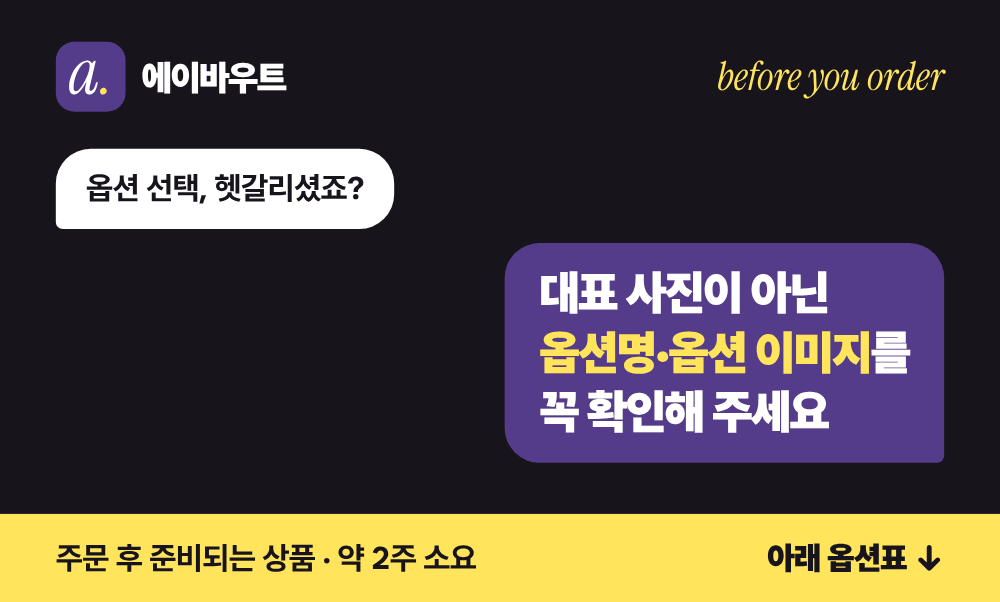
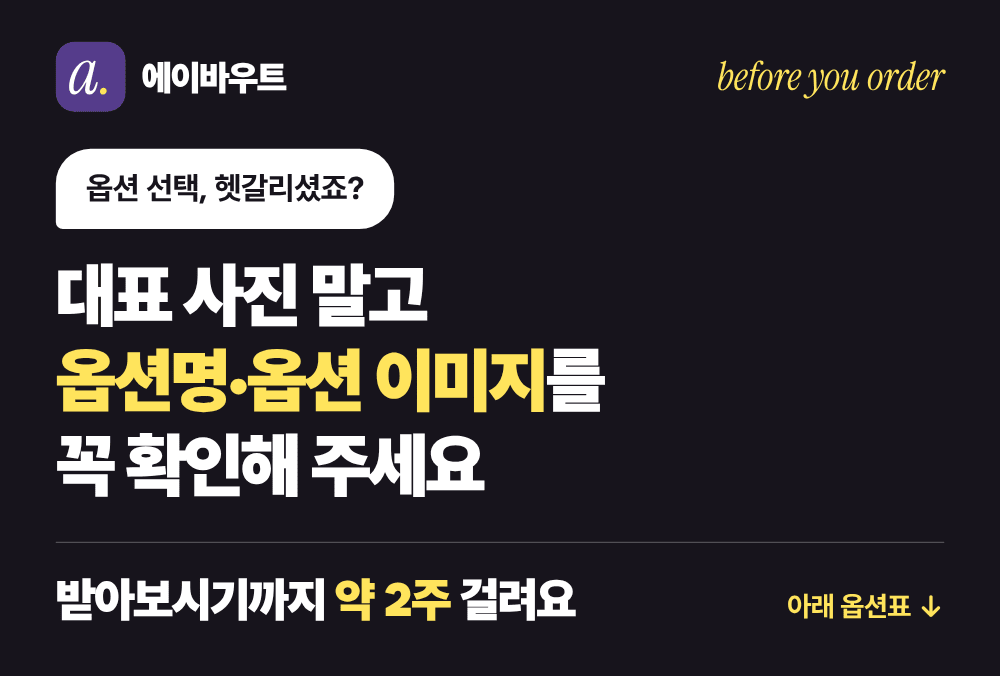
에이바우트 상단: 핵심 문구를 말풍선 밖 큰 글씨로, 노란 띠 문구 제거
Claude-Session: https://claude.ai/code/session_01PE2ziTJ29XNj6qrJ9hNtvD

diff --git a/about-design/src/top.html b/about-design/src/top.html
@@ -2,21 +2,21 @@
 <html lang="ko"><head><meta charset="utf-8"><title>에이바우트 상단</title>
 <link rel="stylesheet" href="style.css">
 <style>
-  .hero { background: var(--ink); color: #fff; padding: 36px 48px 44px; }
+  .hero { background: var(--ink); color: #fff; padding: 36px 48px 40px; }
   .bar { display: flex; justify-content: space-between; align-items: center; }
   .bar .en { font-size: 34px; color: var(--mark); }
   .hero .chat { margin-top: 32px; }
   .hero .q { background: #fff; color: var(--ink); }
-  .strip { background: var(--mark); color: var(--ink); padding: 18px 48px; display: flex; justify-content: space-between; align-items: center; font-weight: 700; }
-  .strip .dn { font-weight: 900; white-space: nowrap; }
+  /* 핵심 문구: 말풍선이 아니라 화면 폭 전체에 크게 */
+  .big { margin-top: 20px; font-weight: 900; font-size: 60px; line-height: 1.22; letter-spacing: -0.045em; }
+  .foot { margin-top: 30px; padding-top: 24px; border-top: 1px solid rgba(255,255,255,.25); display: flex; justify-content: space-between; align-items: baseline; }
+  .foot .dn { font-size: var(--c); font-weight: 700; color: var(--mark); white-space: nowrap; }
 </style></head>
 <body>
 <div class="hero">
   <div class="bar"><div class="logo"><span class="mark">a<i>.</i></span><span class="name">에이바우트</span></div><span class="en">before you order</span></div>
-  <div class="chat">
-    <p class="q">옵션 선택, 헷갈리셨죠?</p>
-    <p class="a t">대표 사진이 아닌<br><span class="y">옵션명·옵션 이미지</span>를<br>꼭 확인해 주세요</p>
-  </div>
+  <div class="chat"><p class="q">옵션 선택, 헷갈리셨죠?</p></div>
+  <div class="big">대표 사진 말고<br><span class="y">옵션명·옵션 이미지</span>를<br>꼭 확인해 주세요</div>
+  <div class="foot"><span class="t">받아보시기까지 <span class="y">약 2주</span> 걸려요</span><span class="dn">아래 옵션표 ↓</span></div>
 </div>
-<div class="strip"><span>주문 후 준비되는 상품 · 약 2주 소요</span><span class="dn">아래 옵션표 ↓</span></div>
 </body></html>

diff --git a/about-design/README.md b/about-design/README.md
@@ -27,7 +27,7 @@
 ## 결과물 (`output/`, 모두 PNG, 가로 1000px)
 | 파일 | 내용 |
 |---|---|
-| `about_top.png` | 상단: 로고 + 옵션 확인 + 약 2주 띠 (1000 × 602) |
+| `about_top.png` | 상단: 로고 + 옵션 확인 큰 문구 + 약 2주 안내 (1000 × 676) |
 | `about_bottom_01.png` | 표지 + 배송 |
 | `about_bottom_02.png` | 착불 배송비 + 상품 안내 |
 | `about_bottom_03.png` | 교환·반품 |
